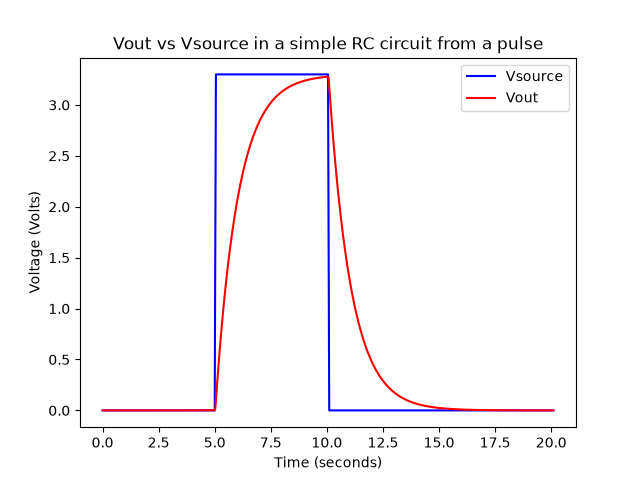
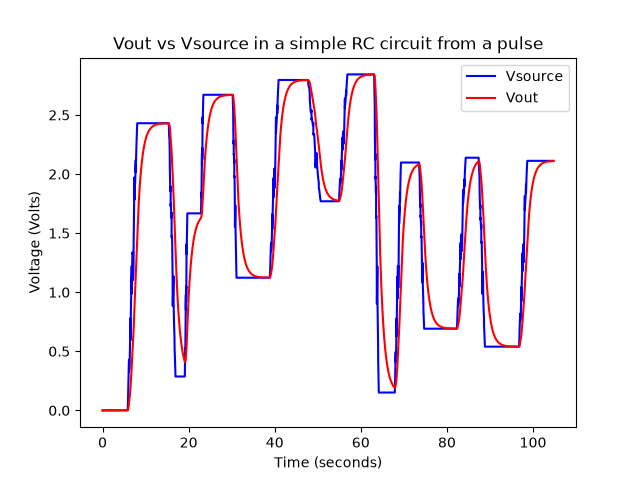
feat: added more complicated input waveform

diff --git a/slow.py b/slow.py
@@ -59,13 +59,95 @@ Output:
 Usage:
     uv run slow.py
 """
+import math
+import random
 import matplotlib.pyplot as plt
 
-def make_ramp(v_from, v_to, duration, dt):
+def make_ramp(v_from, v_to, duration, dt,
+              n_sine=3, n_tri=5, n_saw=7, ripple=0.15):
+    """Transition from v_from to v_to over `duration`, but instead of a plain
+    linear ramp, ride a composite ripple (sine + triangle + sawtooth) on top of
+    the linear trend.
+ 
+    The ripple is windowed (sin(pi*frac)) so it fades to zero at both ends,
+    which keeps the endpoints exactly at v_from / v_to -- so this drops straight
+    into main()'s pulse assembly with no jump at the seams. The sawtooth's sharp
+    resets still land mid-ramp, so the transition stays genuinely busy.
+ 
+    n_sine / n_tri / n_saw : number of full cycles of each component across the
+                             ramp.
+    ripple                 : combined ripple amplitude as a fraction of the
+                             transition height |v_to - v_from|.
+    """
     n_steps = int(duration / dt)
     if n_steps <= 0:
         return []
-    return [v_from + (v_to - v_from) * (i / n_steps) for i in range(n_steps + 1)]
+ 
+    span = v_to - v_from
+    amp = ripple * abs(span) if span else ripple   # fall back if flat
+ 
+    out = []
+    for i in range(n_steps + 1):
+        frac = i / n_steps                          # 0 .. 1 across the ramp
+        base = v_from + span * frac                 # linear trend
+ 
+        # sine component, in [-1, 1]
+        s = math.sin(2 * math.pi * n_sine * frac)
+ 
+        # triangle component, in [-1, 1] (corners at peaks)
+        tf = (n_tri * frac) % 1.0
+        tri = 1.0 - 4.0 * abs(tf - 0.5)
+ 
+        # sawtooth component, in [-1, 1] (sharp reset each cycle)
+        sf = (n_saw * frac) % 1.0
+        saw = 2.0 * sf - 1.0
+ 
+        # window: 0 at both ends, 1 in the middle -> endpoints stay clean
+        window = math.sin(math.pi * frac)
+ 
+        ripple_val = amp * window * (s + tri + saw) / 3.0
+        out.append(base + ripple_val)
+ 
+    return out
+ 
+ 
+def build_source(dt, Vs_max, total_time, seed=42,
+                 hold_range=(2.0, 8.0), ramp_range=(0.5, 3.0),
+                 min_delta_frac=0.3):
+    """Build a randomized source-voltage list: a train of composite ramps to
+    random levels, each separated by a random hold.
+ 
+    Starts at 0 V, then repeatedly picks a new random target level (each ramp is
+    the composite make_ramp shape), ramps to it over a random duration, and
+    holds there for a random duration -- until total_time is reached. Because
+    each target is drawn independently, the ramps go up and down "randomly."
+ 
+    seed           : fixes the RNG so runs are reproducible.
+    hold_range     : (min, max) seconds to sit at a level between ramps.
+    ramp_range     : (min, max) seconds for each ramp edge.
+    min_delta_frac : each new target must differ from the current level by at
+                     least this fraction of Vs_max, so every ramp is visible.
+    """
+    rng = random.Random(seed)
+    v = []
+    level = 0.0
+ 
+    # initial hold at 0 before anything happens
+    v += [level] * int(rng.uniform(*hold_range) / dt)
+ 
+    while len(v) * dt < total_time:
+        # pick a new target that's meaningfully different from where we are
+        target = rng.uniform(0, Vs_max)
+        while abs(target - level) < min_delta_frac * Vs_max:
+            target = rng.uniform(0, Vs_max)
+ 
+        ramp_dur = rng.uniform(*ramp_range)
+        v += make_ramp(level, target, ramp_dur, dt)
+        level = target
+ 
+        v += [level] * int(rng.uniform(*hold_range) / dt)
+ 
+    return v
 
 def main():
     print("Hello from pumpkynspice!")
@@ -74,18 +156,9 @@ def main():
     Vs_max = 3.3  # Volts
     dt = 0.001    # seconds
 
-    t_start = 5.0   # seconds low, before ramp
-    t_ramp  = 0.05  # seconds to ramp up/down -- tweak this to taste
-    t_high  = 5.0   # seconds high
-    t_low   = 10.0  # seconds low at the end
-
-    v_start     = [0] * int(t_start / dt)
-    v_ramp_up   = make_ramp(0, Vs_max, t_ramp, dt)
-    v_high      = [Vs_max] * int(t_high / dt)
-    v_ramp_down = make_ramp(Vs_max, 0, t_ramp, dt)
-    v_low       = [0] * int(t_low / dt)
-
-    v = v_start + v_ramp_up + v_high + v_ramp_down + v_low
+    total_time = 100.0  # seconds -- ~5x the original single-pulse run
+    # A randomized train of composite ramps up and down (reproducible via seed).
+    v = build_source(dt, Vs_max, total_time, seed=42)
     t = [i * dt for i in range(len(v))]
 
     # Initial value

diff --git a/README.md b/README.md
@@ -44,7 +44,7 @@ A **NumPy-vectorized version is planned** (`fast.py`, working name) to benchmark
 
 ## Example output
 
-Running the simulator with the default parameters (a 3.3V pulse from 5s–10s) produces the following waveform:
+Running the simulator with the default parameters produces something like the following waveform:
 
 <p align="center">
   <img src="output.png" alt="Vout vs Vsource waveform" width="600"/>
